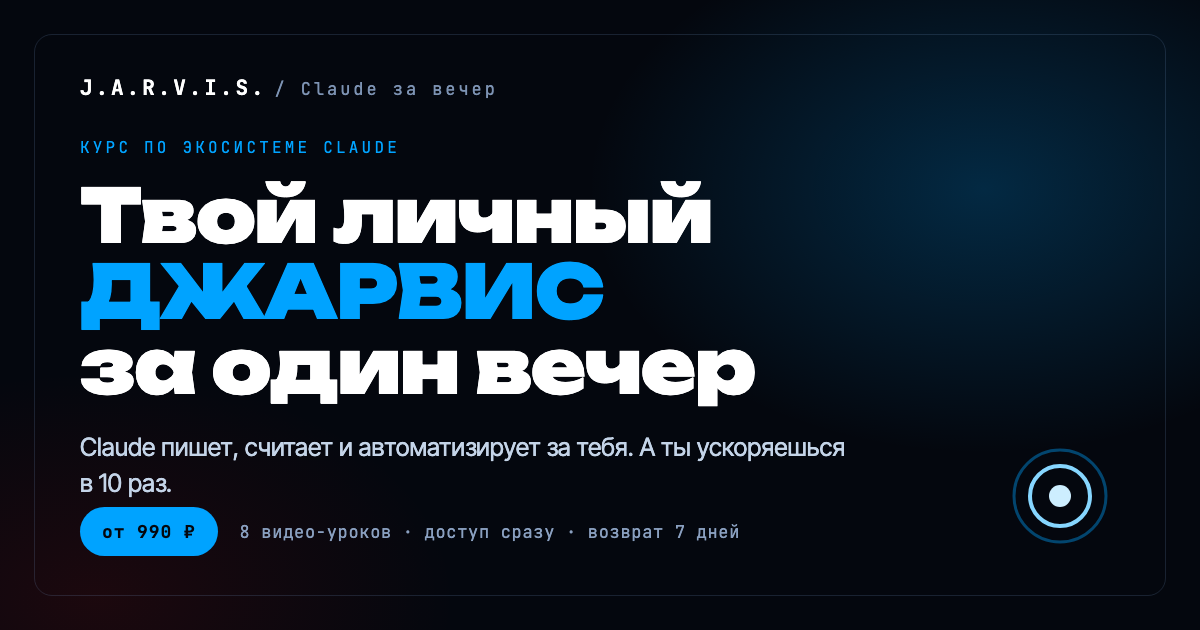
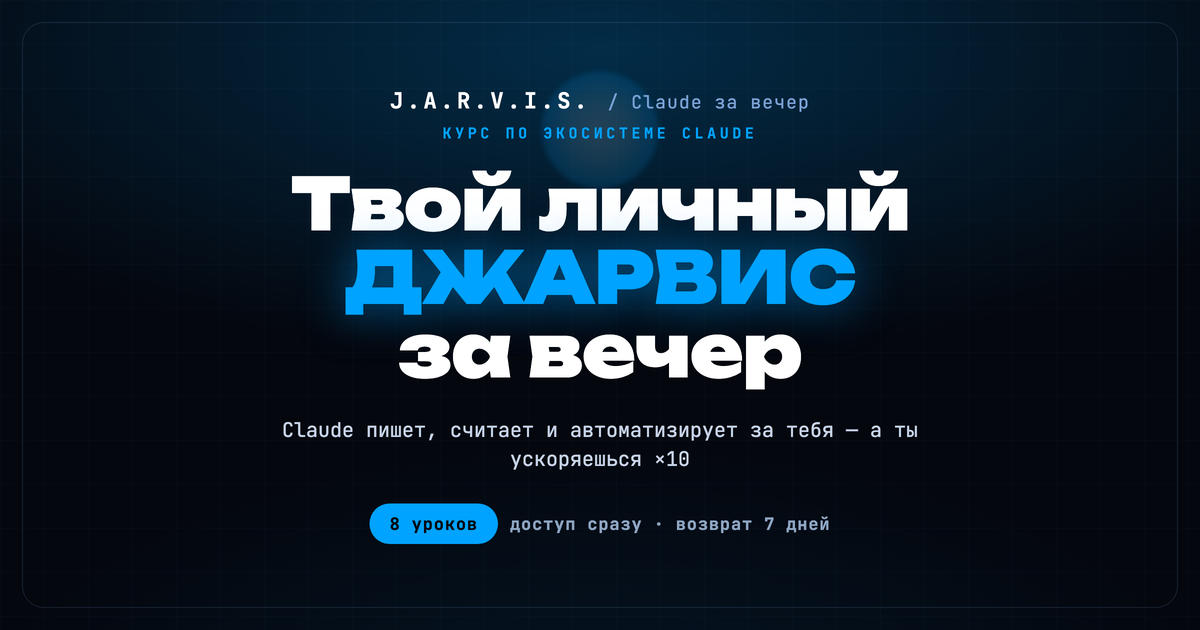
отзывы: добавлен 8-й (Marina Mikhailova) — воссоздан в стиле Telegram, webp+png

diff --git a/index.html b/index.html
@@ -25,7 +25,7 @@
 <link rel="preconnect" href="https://fonts.googleapis.com" />
 <link rel="preconnect" href="https://fonts.gstatic.com" crossorigin />
 <link href="https://fonts.googleapis.com/css2?family=Unbounded:wght@400;600;800;900&family=JetBrains+Mono:wght@400;500;700&family=Inter+Tight:wght@400;500;600;700&display=swap" rel="stylesheet" />
-<link rel="stylesheet" href="styles.css?v=20260626e" />
+<link rel="stylesheet" href="styles.css?v=20260626f" />
 
 <!-- Yandex.Metrika counter -->
 <script type="text/javascript">
@@ -571,6 +571,7 @@
           <img class="tg-shot reveal" alt="Отзыв ученика" src="suit/review-5.webp" loading="lazy" decoding="async" onerror="if(this.dataset.f){this.remove()}else{this.dataset.f=1;this.src='suit/review-5.png'}" />
           <img class="tg-shot reveal" alt="Отзыв ученика" src="suit/review-6.webp" loading="lazy" decoding="async" onerror="if(this.dataset.f){this.remove()}else{this.dataset.f=1;this.src='suit/review-6.png'}" />
           <img class="tg-shot reveal" alt="Отзыв ученика" src="suit/review-7.webp" loading="lazy" decoding="async" onerror="if(this.dataset.f){this.remove()}else{this.dataset.f=1;this.src='suit/review-7.png'}" />
+          <img class="tg-shot reveal" alt="Отзыв ученика" src="suit/review-8.webp" loading="lazy" decoding="async" onerror="if(this.dataset.f){this.remove()}else{this.dataset.f=1;this.src='suit/review-8.png'}" />
         </div>
         <div class="reviews__mobnav" aria-hidden="true">
           <button class="reviews__arrow" type="button" aria-label="Назад" data-rev="-1">‹</button>
@@ -823,6 +824,6 @@
 <script src="https://unpkg.com/lenis@1.1.13/dist/lenis.min.js"></script>
 <script src="https://cdnjs.cloudflare.com/ajax/libs/gsap/3.12.5/gsap.min.js"></script>
 <script src="https://cdnjs.cloudflare.com/ajax/libs/gsap/3.12.5/ScrollTrigger.min.js"></script>
-<script src="script.js?v=20260626e"></script>
+<script src="script.js?v=20260626f"></script>
 </body>
 </html>